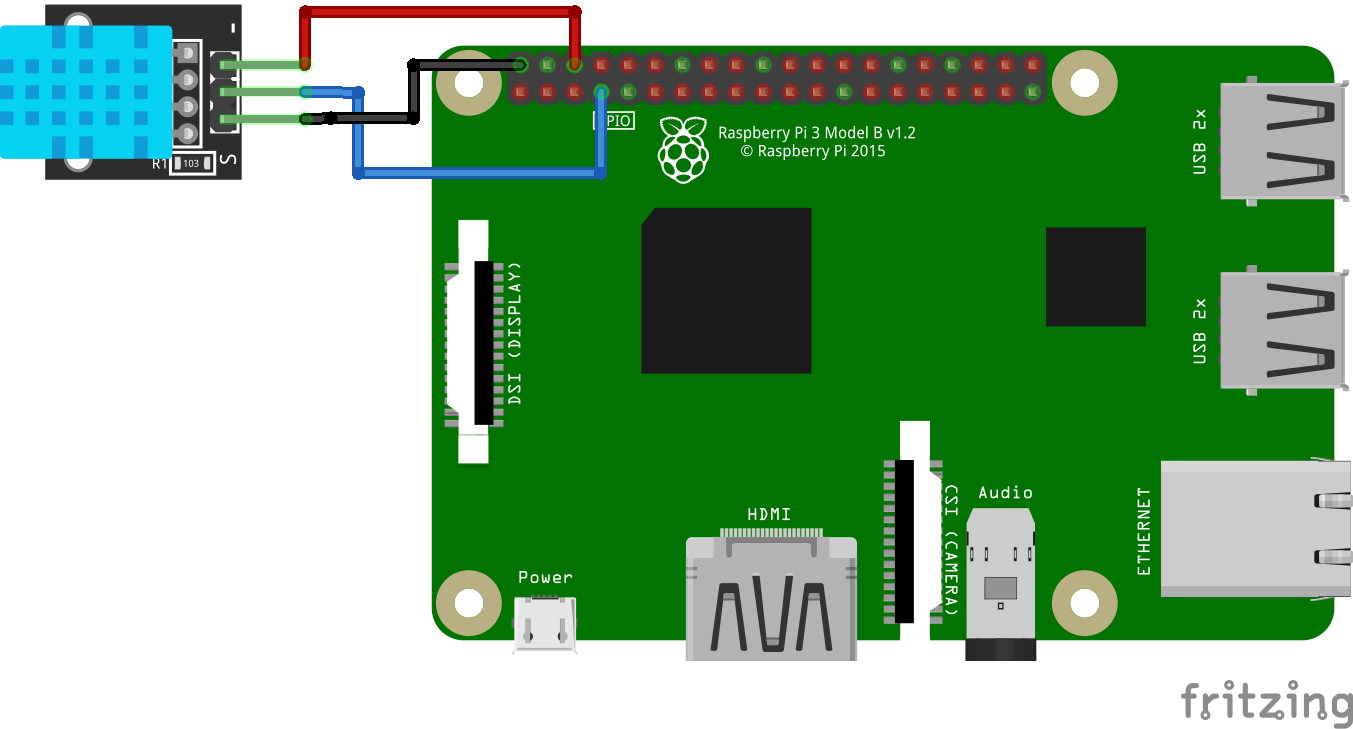
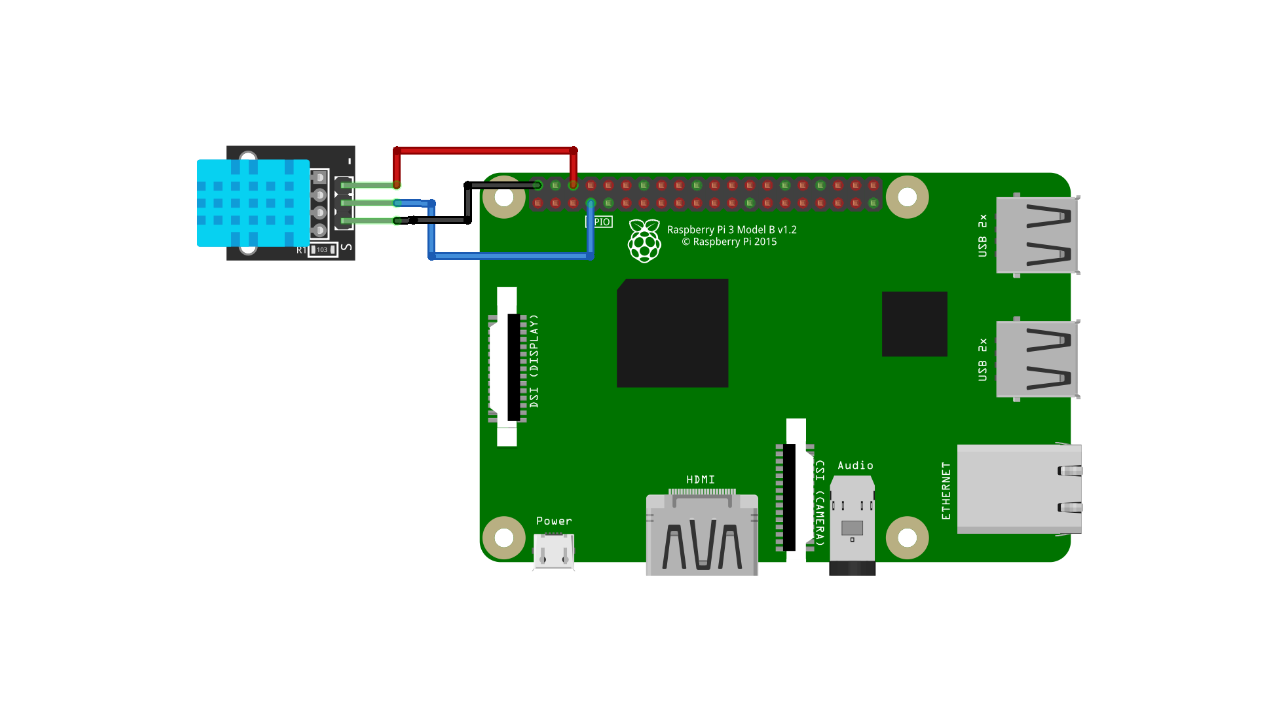
resize image

diff --git a/README.md b/README.md
@@ -30,13 +30,15 @@ _BIGEARD Robin - DAVID Marceau_
 Fichier : [dht11.py](https://github.com/marceaudavid/iot-sensor/blob/master/dht11.py)
 
 ### Câblage
+
 Pour le Câblage il faudra mettre le brachement comme présenter sur le schéma.
-![alt text](/img/schema.jpg "schema")
-![alt text](/img/schem.jpg "schem")
+![alt text](/img/schema.png "schema")
+![alt text](/img/schem.png "schem")
 
 ### Code Python
 
 La premiere étape l'installation de Python 3, Pip 3 et Adafruit_DHT.
+
 ```bash
 sudo apt-get update
 sudo apt-get upgarde
@@ -44,14 +46,17 @@ sudo apt-get install python3
 sudo apt-get install python3-pip
 sudo python3 -m pip install --upgrade pip setuptools wheel
 ```
+
 ```bash
 sudo pip install Adafruit_DHT
 ```
+
 ```bash
 sudo python3 dht11.py install
 ```
 
 Code Python pour le DHT11
+
 ```python
 #!/usr/bin/python
 import sys
